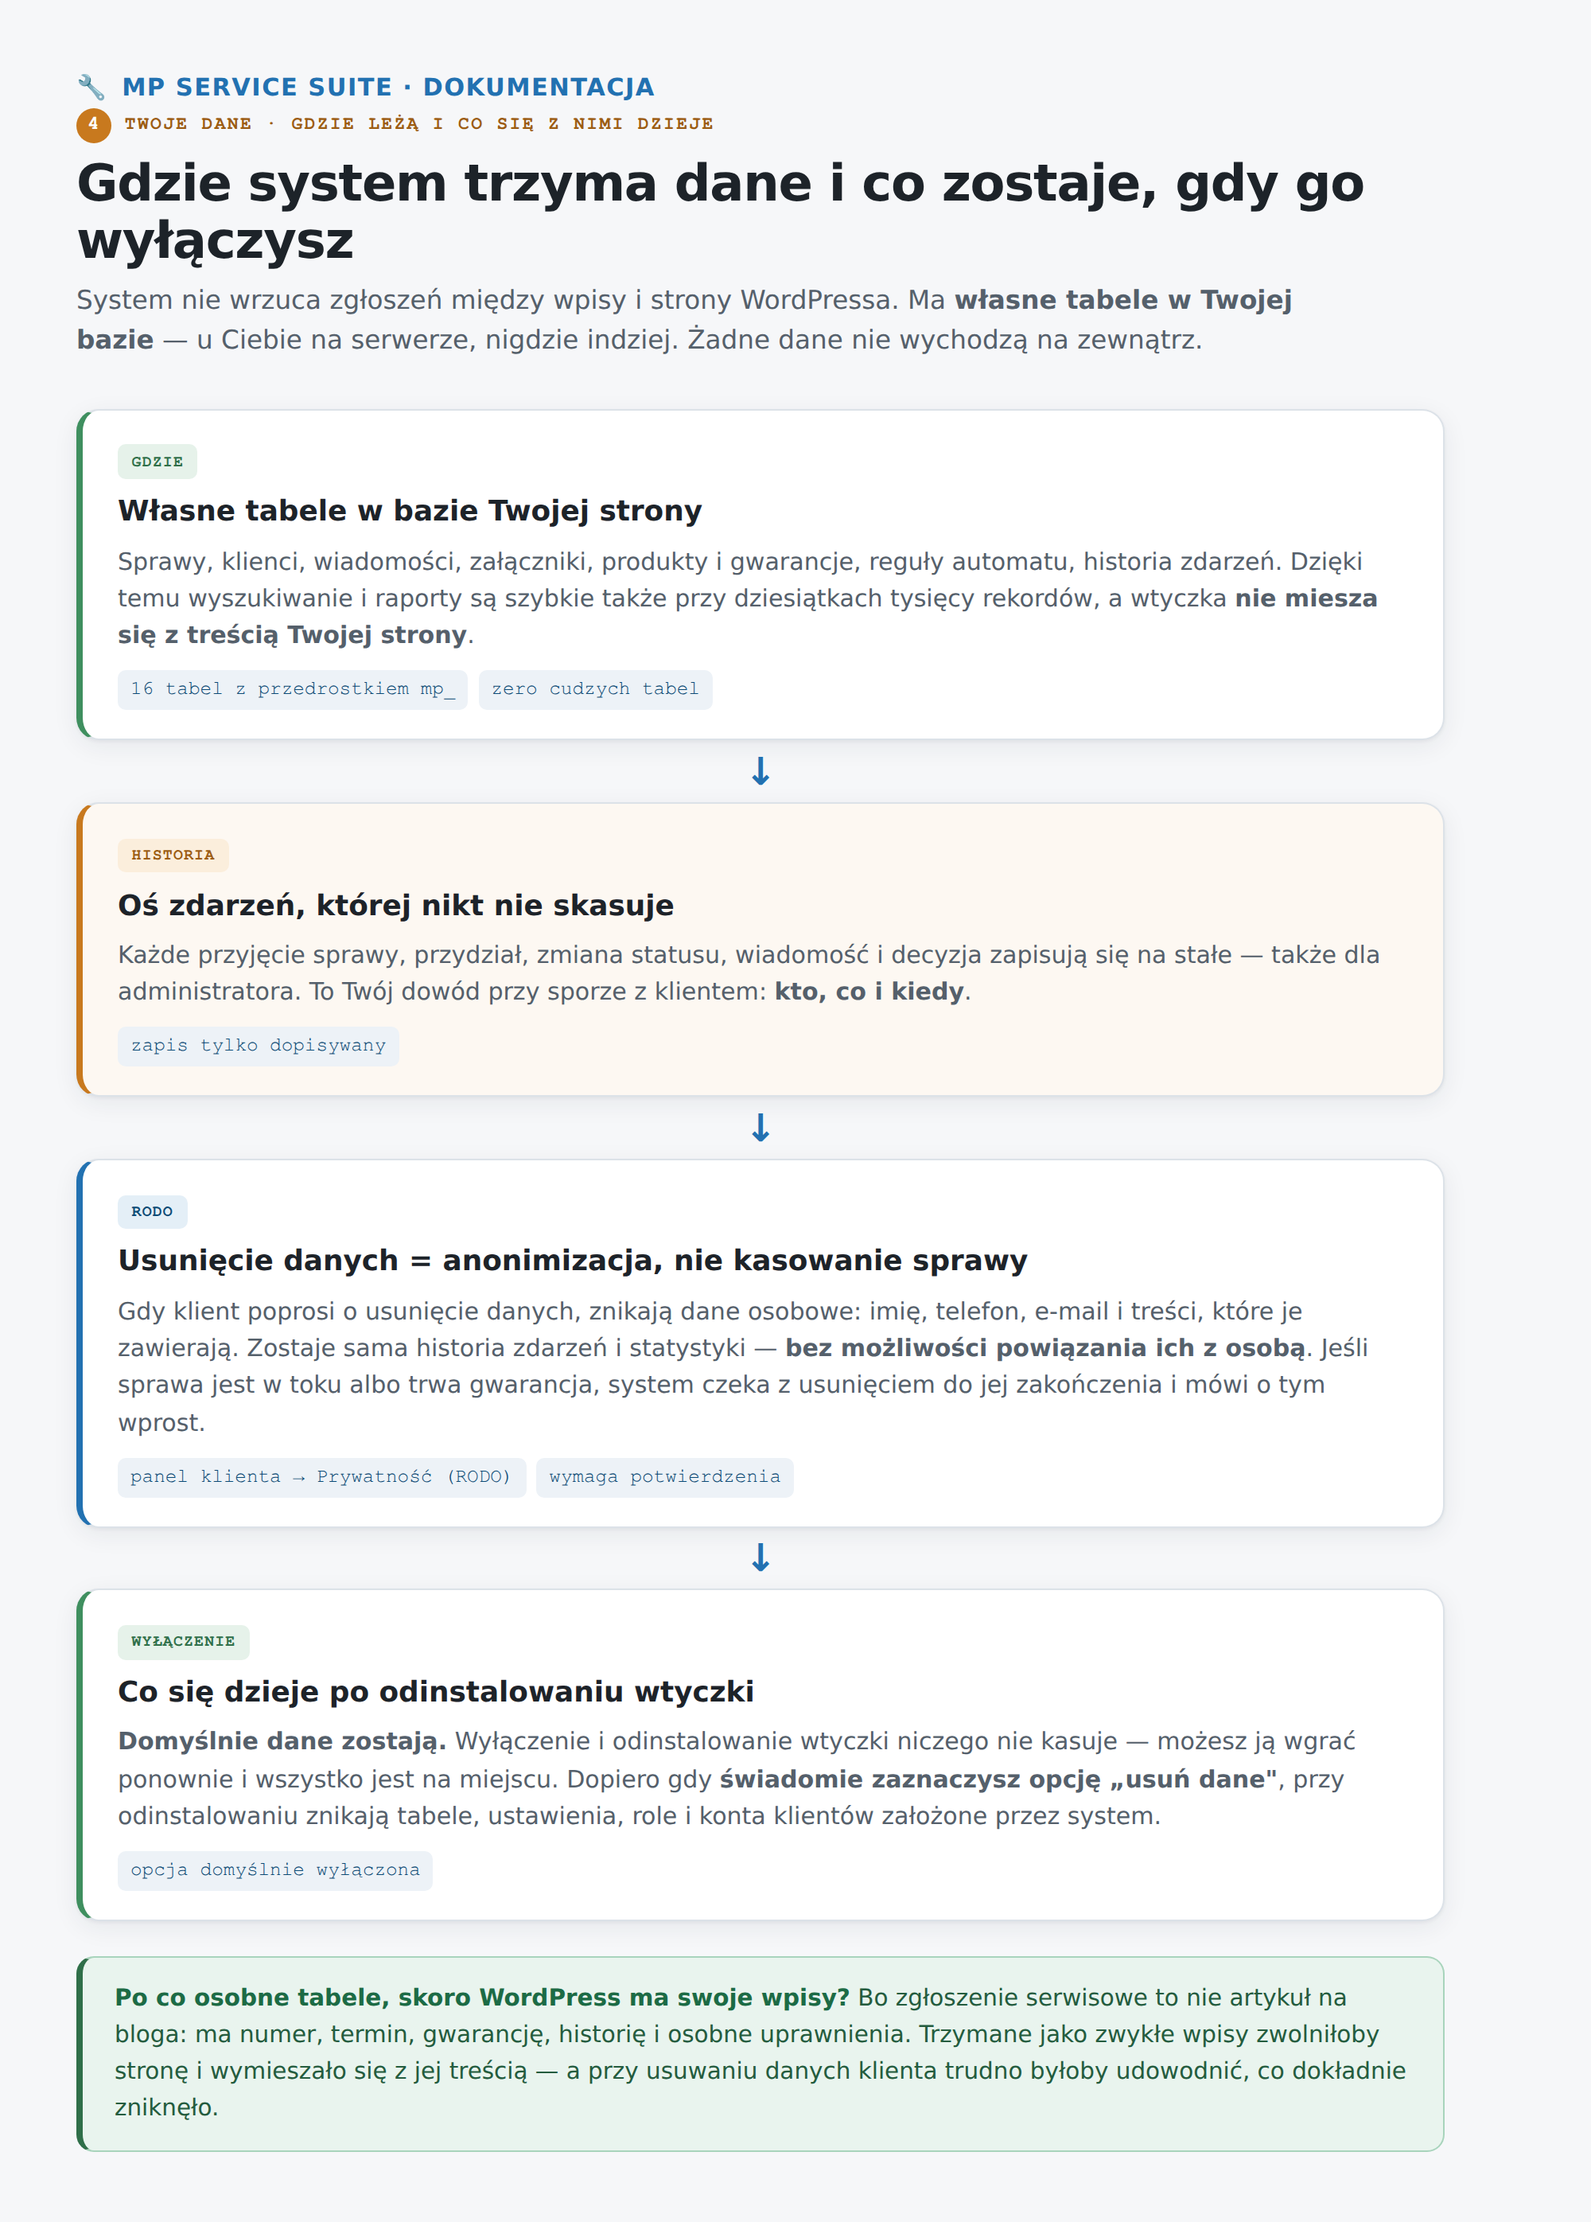
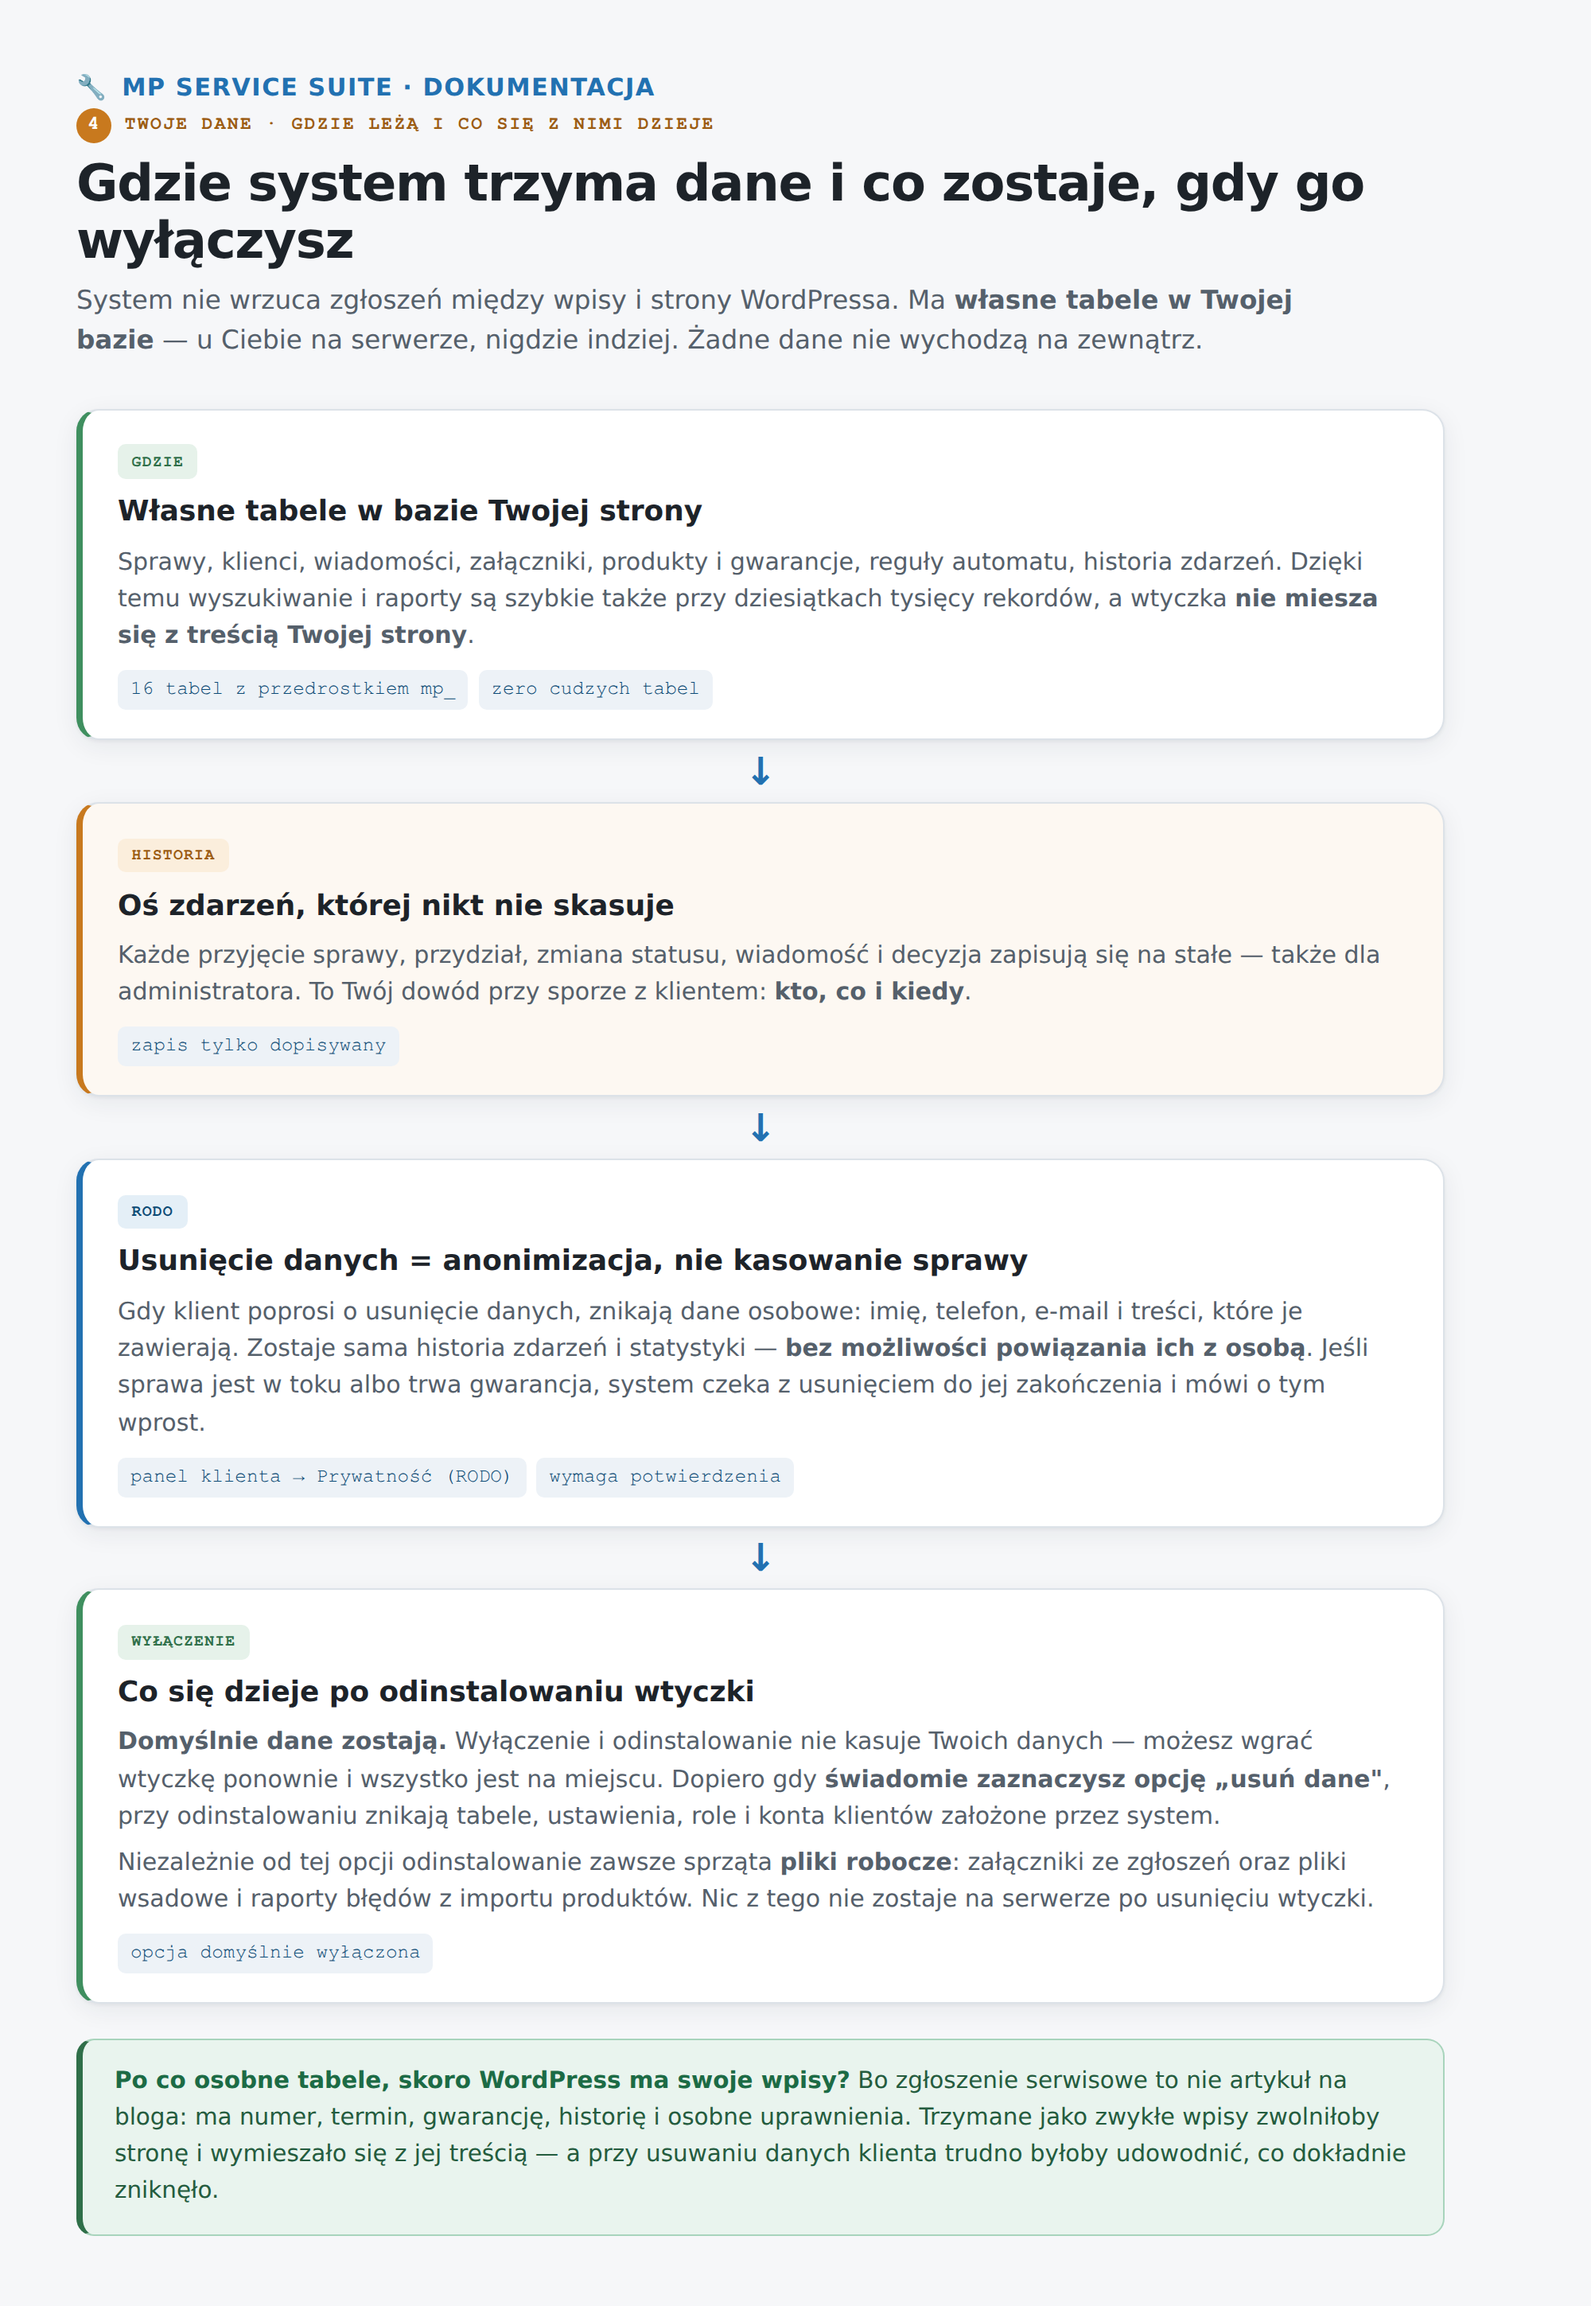
docs(diagramy): przegląd po naprawach — trzy rozjazdy z działającym systemem (#161)
* docs(diagramy): przeglad po naprawach — trzy rozjazdy z dzialajacym systemem

Przeglad diagramow pod katem WSZYSTKICH dzisiejszych zmian (audyt 29.07). Trzy tresci
przestaly byc prawdziwe — w tym jedna, ktora rozjechalem WLASNA naprawa:

1. „Droga zgloszenia": „Jesli wlaczysz regule przydzialu…" i odsylacz do „Reguly
   przydzialu". Regula jest wbudowana i wlaczona od instalacji — brakuje WSKAZANIA
   PRACOWNIKOW. Klient szukalby wlacznika, ktorego nie ma. Teraz: „Gdy wskazesz
   pracownikow…" + odsylacz do sekcji „Kto dostaje zgloszenia" (dodanej w 1.2.0).

2. „Statusy sprawy": „Godziny ponizej to ustawienia startowe — ZMIENISZ JE SAM
   w Automatyzacje MP, bez dotykania kodu". Nieprawda: konfiguracji SLA nigdzie sie
   nie zapisuje (zero `update_option`), nie ma na to ekranu. To ta sama klasa klamstwa,
   ktora poprawilem w INSTRUKCJI — a diagram zostal, bo sweep byl niepelny.

3. „Gdzie mieszkaja dane": „odinstalowanie NICZEGO nie kasuje". Po naprawie 1.2.1
   pliki robocze (zalaczniki i pliki wsadowe importu) sa kasowane ZAWSZE, niezaleznie
   od opcji „usun dane" — czyli to MOJA zmiana uniewaznila ten opis. Dopisany akapit
   mowi wprost, co znika zawsze, a co dopiero po swiadomym zaznaczeniu opcji.

Obrazki przegenerowane ze zrodel. ⚠ `build/render-diagramy.py` wymaga pythonowego
playwrighta, ktorego na tej maszynie NIE MA — uzyty odpowiednik na Node z tymi samymi
parametrami (1000x800, skala 2, pl-PL, pelna strona). Wynik sprawdzony wzrokowo:
[…]

diff --git a/dla-klienta/diagramy-zrodla/04-gdzie-mieszkaja-dane.html b/dla-klienta/diagramy-zrodla/04-gdzie-mieszkaja-dane.html
@@ -47,10 +47,13 @@
   <div class="node serwis">
     <span class="kto serwis">WYŁĄCZENIE</span>
     <h3>Co się dzieje po odinstalowaniu wtyczki</h3>
-    <p><b>Domyślnie dane zostają.</b> Wyłączenie i odinstalowanie wtyczki niczego nie kasuje —
-       możesz ją wgrać ponownie i wszystko jest na miejscu. Dopiero gdy <b>świadomie zaznaczysz
-       opcję „usuń dane"</b>, przy odinstalowaniu znikają tabele, ustawienia, role i konta klientów
-       założone przez system.</p>
+    <p><b>Domyślnie dane zostają.</b> Wyłączenie i odinstalowanie nie kasuje Twoich danych —
+       możesz wgrać wtyczkę ponownie i wszystko jest na miejscu. Dopiero gdy <b>świadomie
+       zaznaczysz opcję „usuń dane"</b>, przy odinstalowaniu znikają tabele, ustawienia, role
+       i konta klientów założone przez system.</p>
+    <p>Niezależnie od tej opcji odinstalowanie zawsze sprząta <b>pliki robocze</b>: załączniki
+       ze zgłoszeń oraz pliki wsadowe i raporty błędów z importu produktów. Nic z tego nie
+       zostaje na serwerze po usunięciu wtyczki.</p>
     <div class="chips"><span>opcja domyślnie wyłączona</span></div>
   </div>
 

diff --git a/dla-klienta/diagramy-zrodla/02-przeplyw-zgloszenia.html b/dla-klienta/diagramy-zrodla/02-przeplyw-zgloszenia.html
@@ -45,9 +45,9 @@
   <div class="node system">
     <span class="kto system">SYSTEM · dzieje się samo</span>
     <h3>4. Nadaje priorytet i przydziela pracownika</h3>
-    <p>Jeśli włączysz regułę przydziału, sprawa od razu trafia do konkretnej osoby i ta osoba
-       dostaje powiadomienie. Bez reguły sprawa czeka na liście jako <b>nieprzydzielona</b>.</p>
-    <div class="chips"><span>Automatyzacje MP → Reguły przydziału</span></div>
+    <p>Gdy wskażesz pracowników, sprawa od razu trafia do konkretnej osoby i ta osoba
+       dostaje powiadomienie. Dopóki lista jest pusta, sprawa czeka jako <b>nieprzydzielona</b>.</p>
+    <div class="chips"><span>Automatyzacje MP → Kto dostaje zgłoszenia</span></div>
   </div>
 
   <div class="arrow">↓</div>

diff --git a/dla-klienta/diagramy-zrodla/03-statusy-sprawy.html b/dla-klienta/diagramy-zrodla/03-statusy-sprawy.html
@@ -6,9 +6,9 @@
 <div class="brand"><span>🔧</span> MP Service Suite · dokumentacja</div>
 <div class="eyebrow"><span class="num">3</span> Statusy sprawy · co znaczą i kto je zmienia</div>
 <h1>Siedem statusów — i zegar, który przy nich chodzi</h1>
-<p class="sub">Przy każdym statusie system pilnuje terminu. Godziny poniżej to ustawienia
-   startowe — <b>zmienisz je sam</b> w Automatyzacje MP, bez dotykania kodu. Priorytet sprawy
-   skraca lub wydłuża ten czas.</p>
+<p class="sub">Przy każdym statusie system pilnuje terminu. Godziny poniżej są <b>wbudowane
+   i działają od razu</b> — nie ma na nie ekranu ustawień, inne wartości ustawia programista.
+   Priorytet sprawy skraca lub wydłuża ten czas.</p>
 
 <div class="statusy">
   <table>

diff --git a/dla-klienta/instrukcje/ADMIN.md b/dla-klienta/instrukcje/ADMIN.md
@@ -85,10 +85,12 @@ jej nie widzi) i zostaje w historii produktu:
   wykonywanie się crona, sprawy poza automatyzacją…). Zielono = zdrowo; czerwono = instrukcja
   naprawy w treści testu.
 - **Aktualizacje wtyczek**: standardowo przez ZIP; migracje bazy wykonują się same przy wejściu
-  do panelu, crony odtwarzają się same. Przed aktualizacją na produkcji zrób kopię bazy
-  (polityka: `dokumentacja-techniczna/MIGRATION_POLICY.md`).
-- **Odinstalowanie** sprząta role systemowe (4 role), automatycznie założone strony (2), pliki
-  załączników i zadania cykliczne. **16 tabel z danymi (klienci, sprawy, wiadomości, zgody)**
+  do panelu, crony odtwarzają się same, a **terminy spraw już otwartych przeliczają się
+  automatycznie** — nie musisz po aktualizacji klikać „Przelicz SLA". Przed aktualizacją
+  na produkcji zrób kopię bazy (polityka: `dokumentacja-techniczna/MIGRATION_POLICY.md`).
+- **Odinstalowanie** sprząta role systemowe (4 role), automatycznie założone strony (2), zadania
+  cykliczne oraz **wszystkie pliki robocze**: załączniki ze zgłoszeń, a także pliki wsadowe
+  i raporty błędów z importu produktów — nic z tego nie zostaje na dysku serwera. **16 tabel z danymi (klienci, sprawy, wiadomości, zgody)**
   oraz wpisy niepotwierdzonych zgłoszeń **zostają w bazie** — to świadoma decyzja, żeby
   przypadkowe odinstalowanie wtyczki nie skasowało danych biznesowych. Zostają też konta
   klientów założone przez system (bez roli). Uwaga: narzędzie do kasowania tych danych

diff --git a/dla-klienta/instrukcje/KOORDYNATOR.md b/dla-klienta/instrukcje/KOORDYNATOR.md
@@ -60,6 +60,8 @@ czasie takie zgłoszenie i tak nie może już ruszyć, a **po 30 dniach znika ra
 - Przypomnienia przed terminem idą do przypisanego pracownika; **eskalacje po terminie — do
   Ciebie**.
 - Sprawy nieprzydzielone też eskalują do Ciebie (nic nie ginie w próżni).
+- **Przy większej liczbie zaległości dostajesz jedną zbiorczą wiadomość**, a nie osobny mail
+  od każdej sprawy — np. po dłuższej przerwie w pracy serwera. Lista spraw jest w treści.
 - Wznowienie **zamkniętej** sprawy to wyłącznie Twoja decyzja (Ty albo administrator; zawsze
   do statusu „w analizie", z czystym terminem).
 
